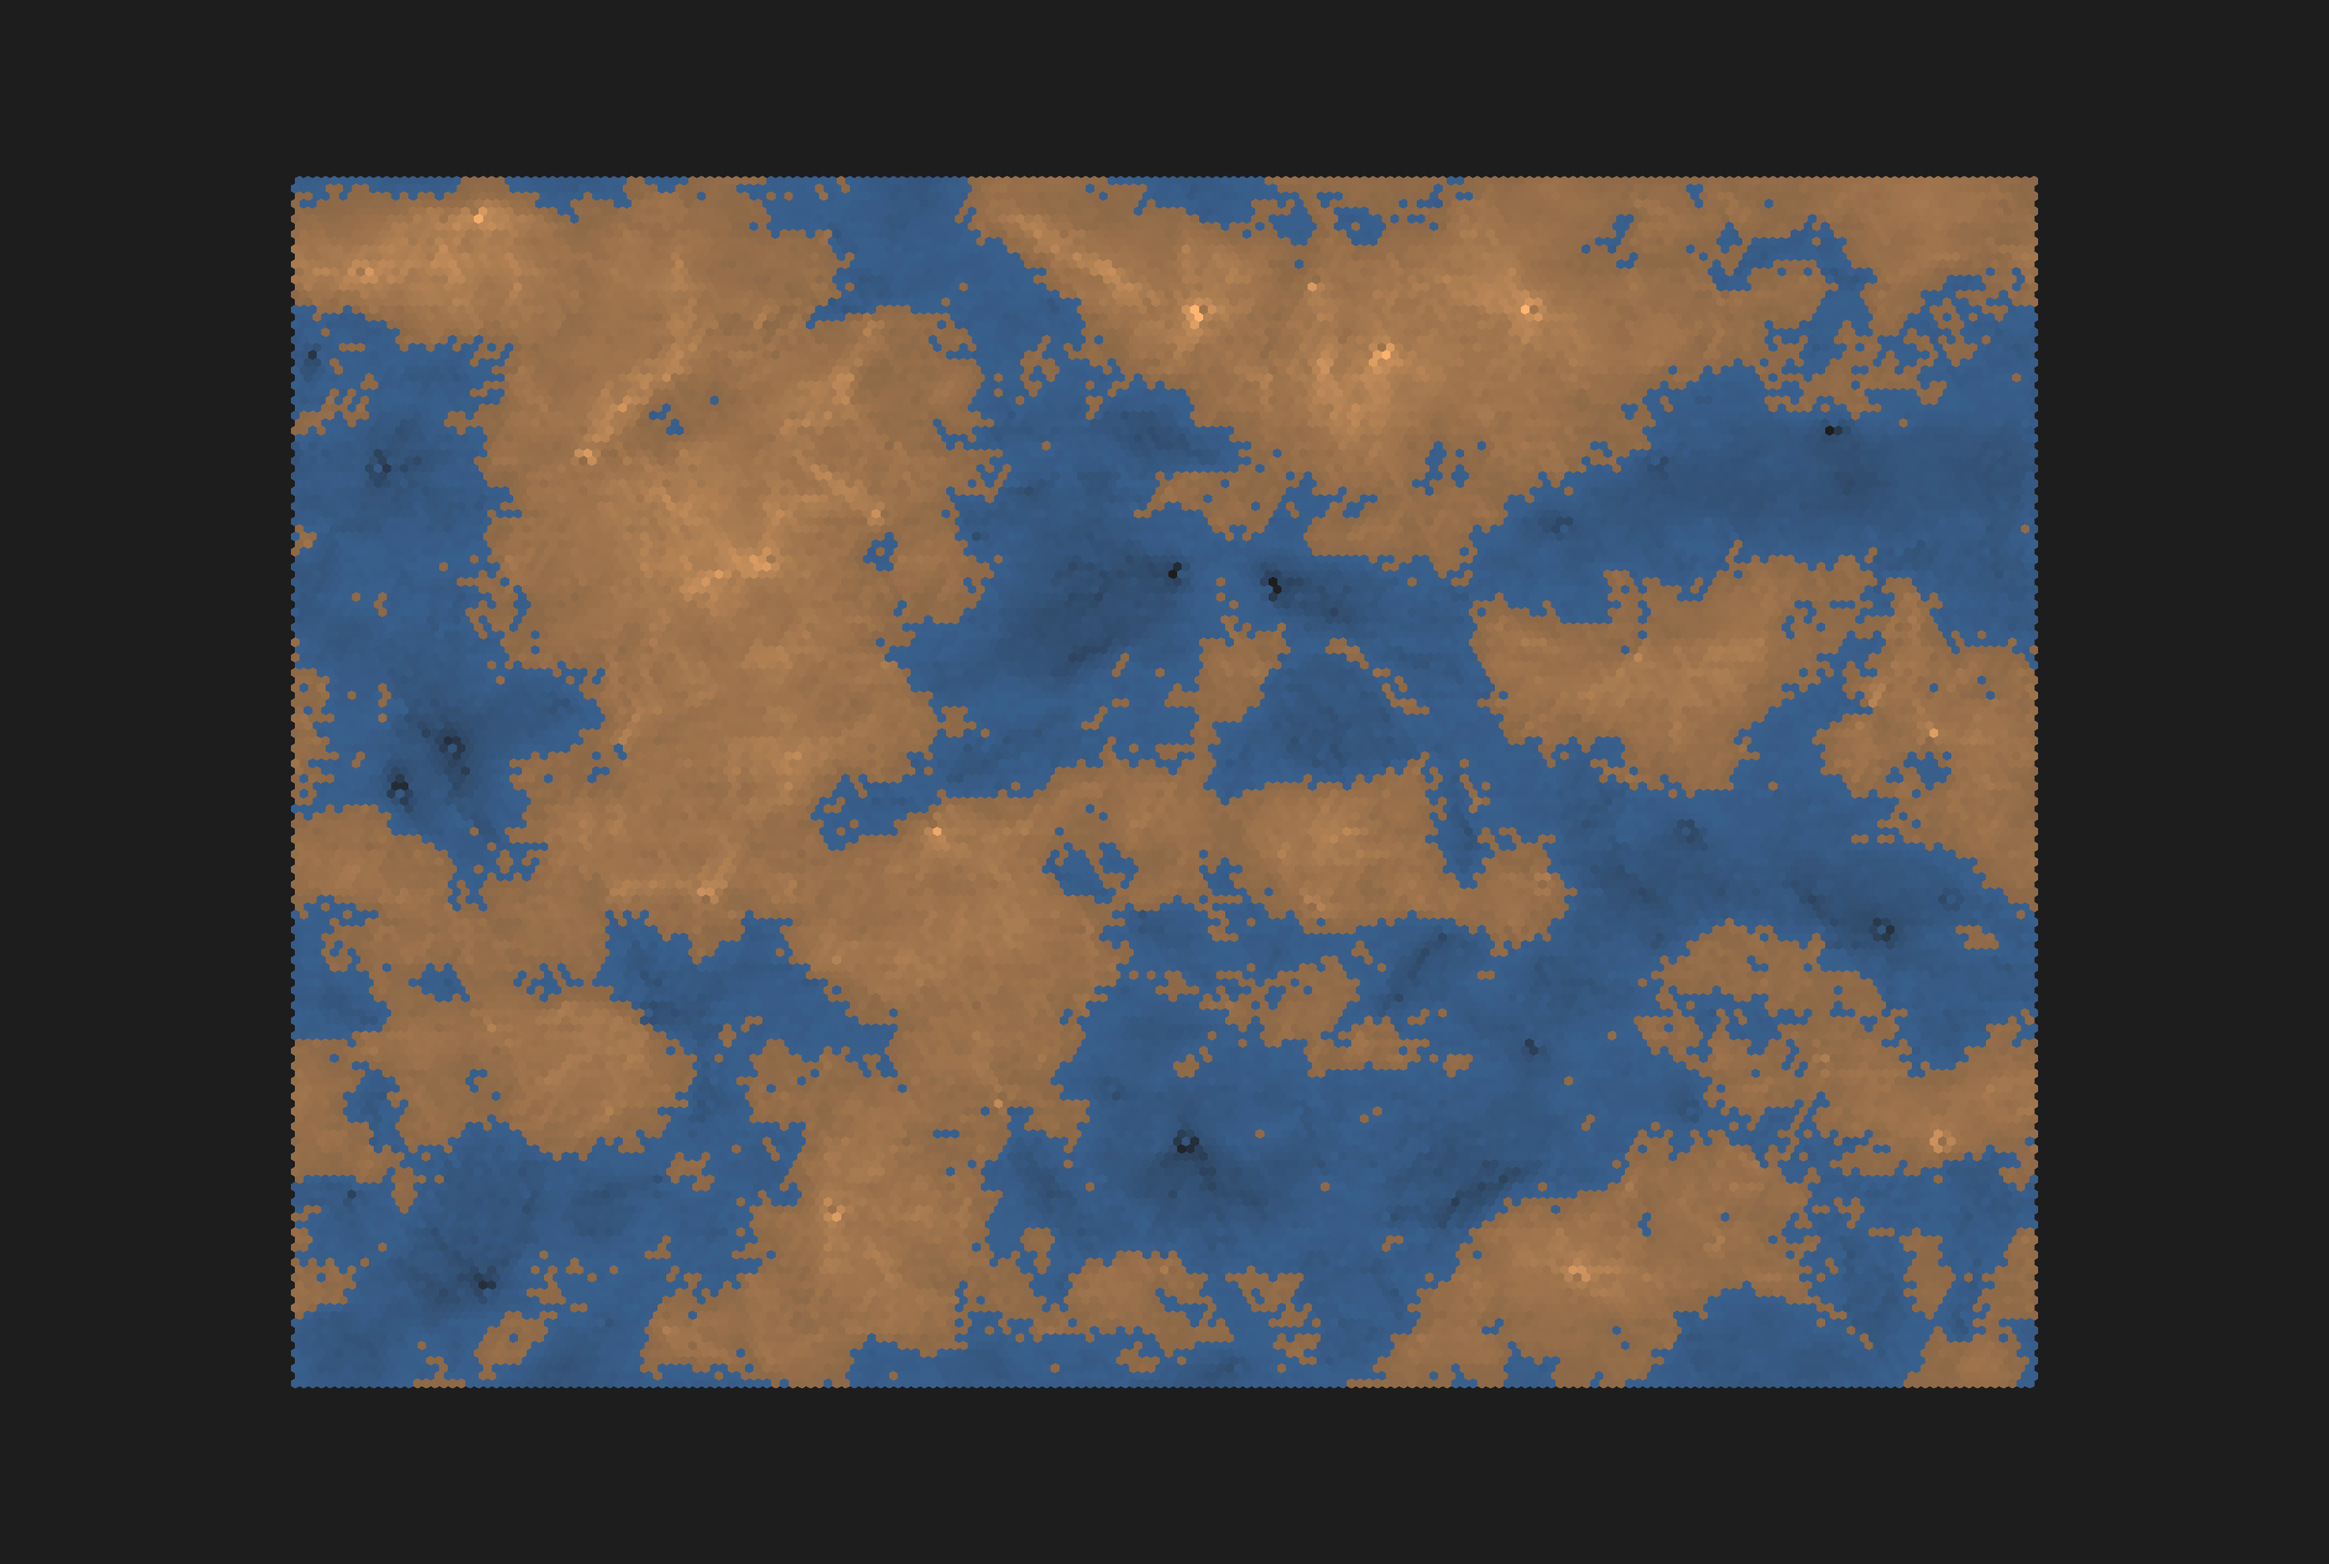
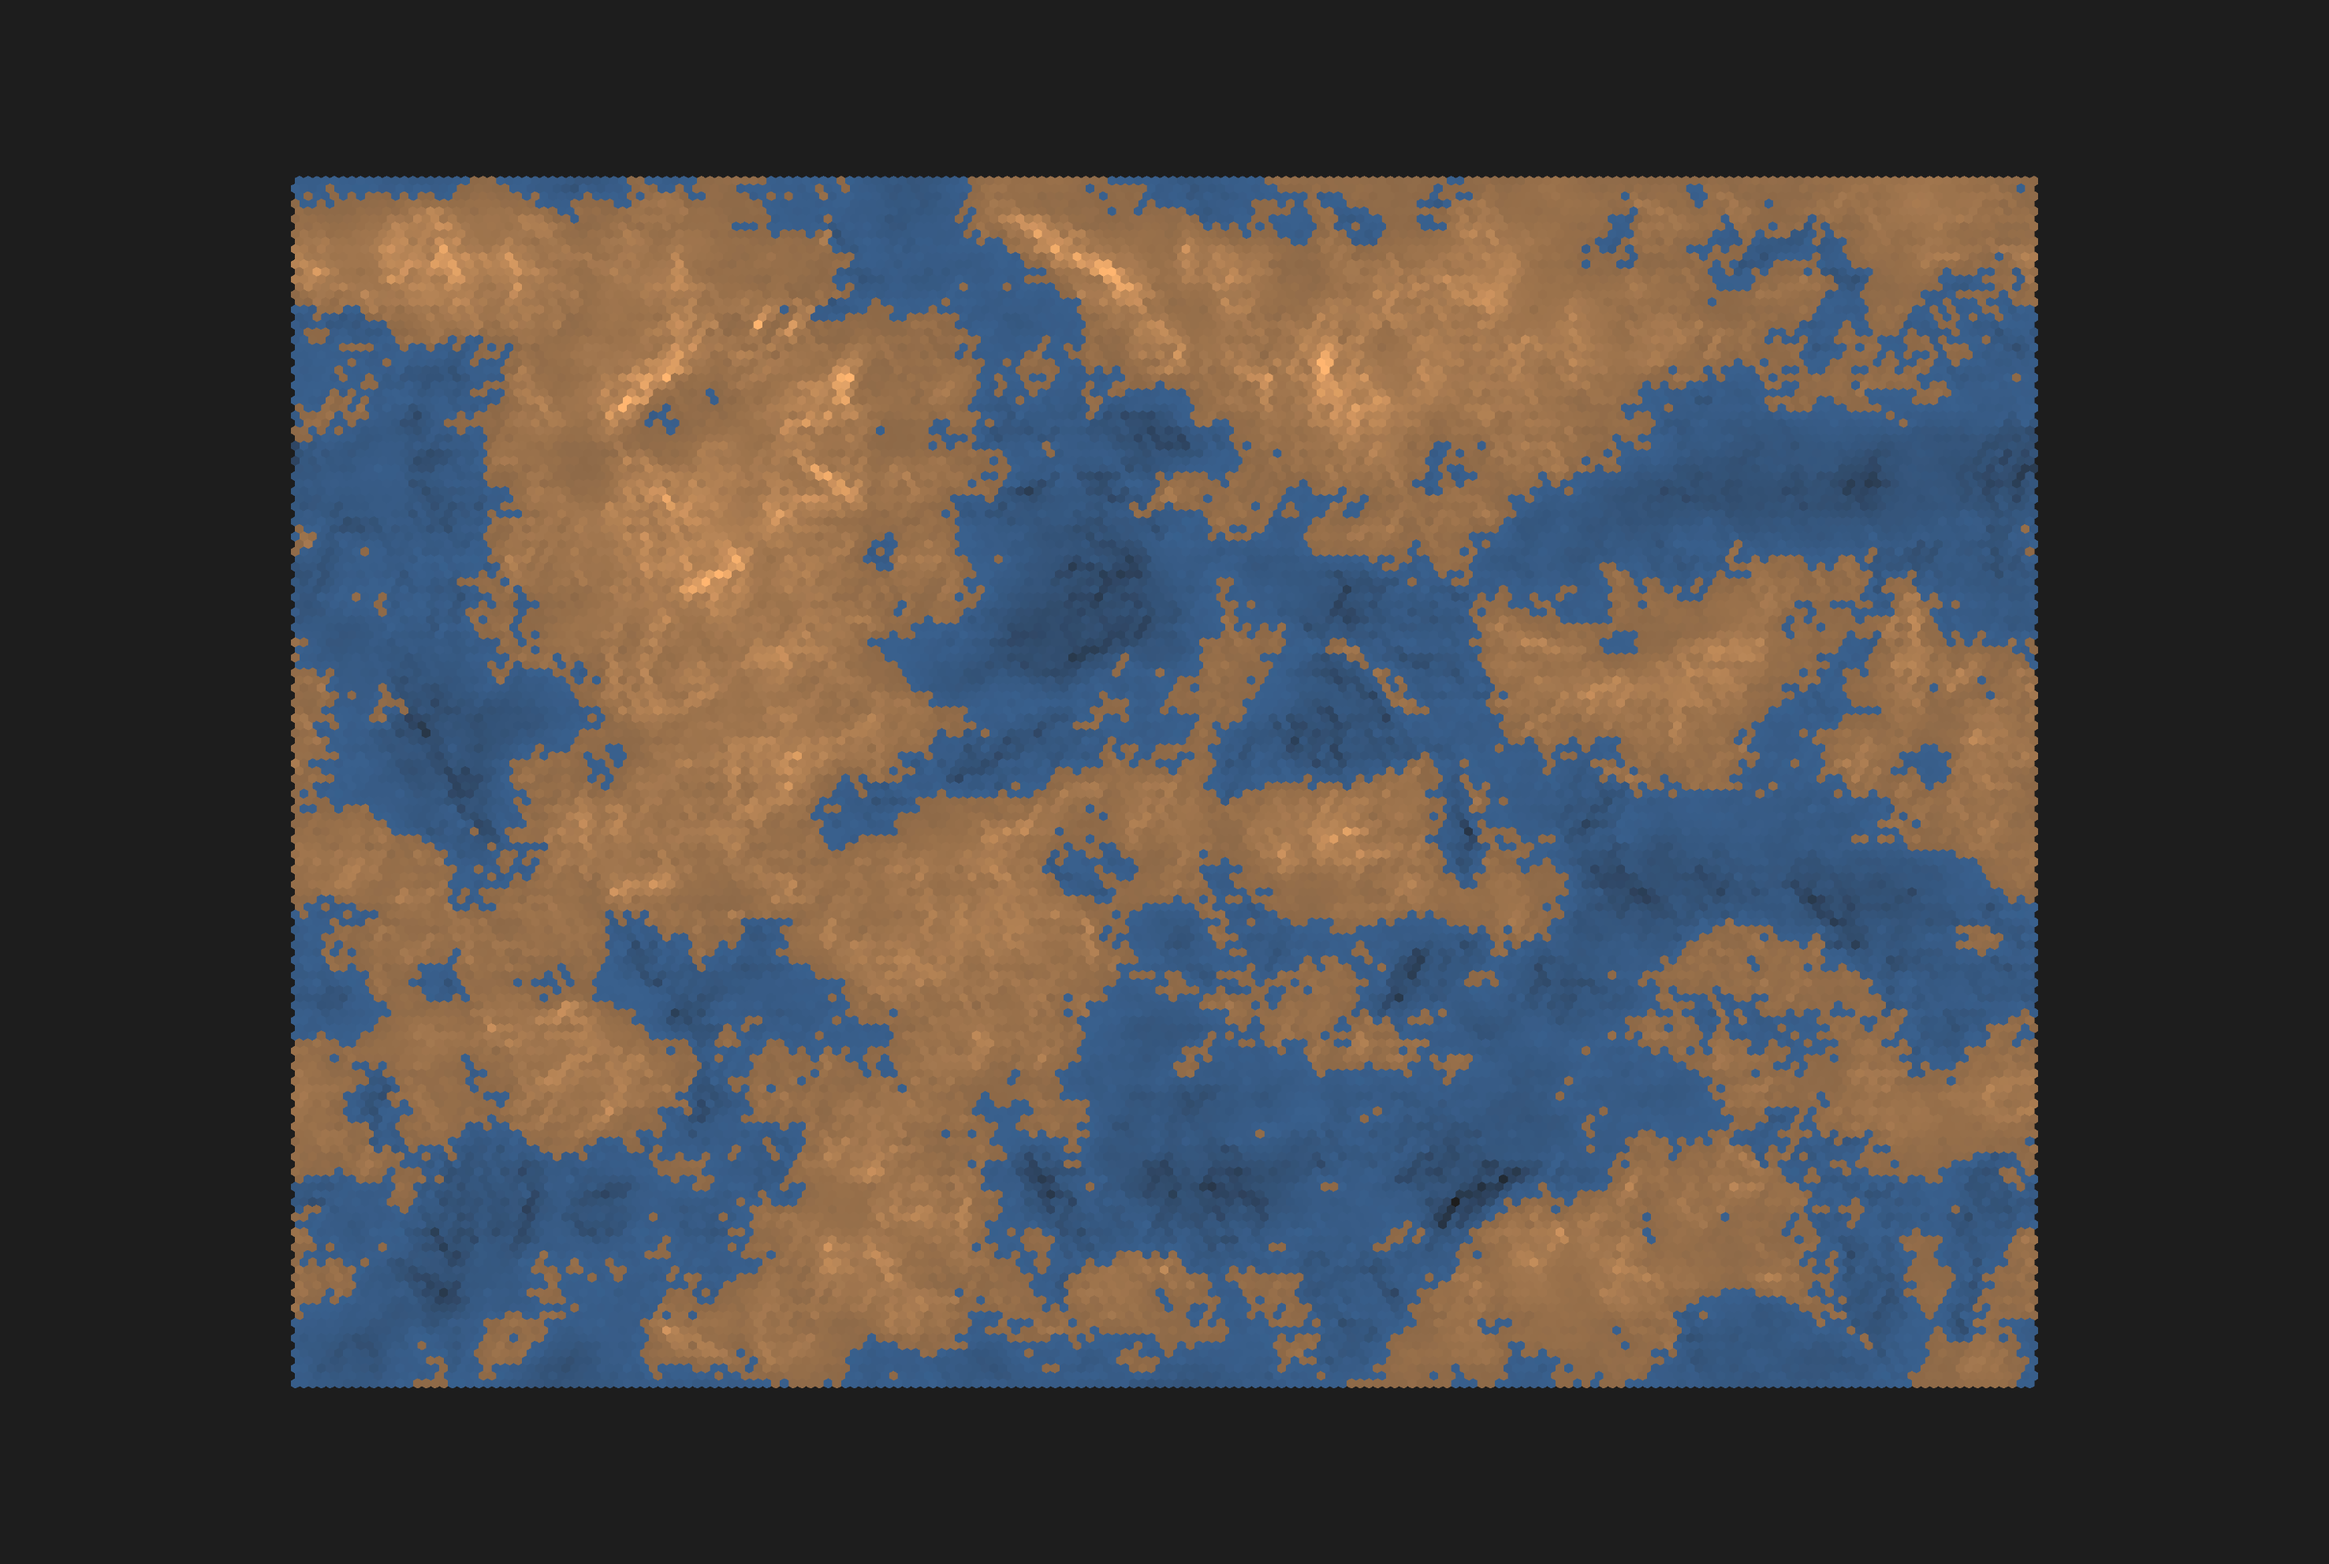
docs: improved examples

diff --git a/src/render/mod.rs b/src/render/mod.rs
@@ -123,7 +123,7 @@ impl Quadrant {
         let resolution = self.resolution(&center.center, &mesh.screen);
         let displacement = Point::new(relative_displacement.x, relative_displacement.y);
 
-        let mut polygons: Polygons = (start.x..end.x)
+        let  polygons: Polygons = (start.x..end.x)
             .into_par_iter()
             .flat_map(|x| {
                 (start.y..end.y).into_par_iter().map(move |y| {
@@ -131,24 +131,24 @@ impl Quadrant {
                     let hex = mesh.get_hex(x, y);
                     let elevation = topography.get_hex(x, y);
                     let mut color = colors::Debug::from_elevation(elevation);
-                    // let p_coord = topography.plates.map.get(&coord).unwrap();
-                    // if p_coord == &coord {
-                    //     color = colors::Debug::Green.rgba();
-                    // } else {
-                    //     let plate = topography.plates.regions.get(p_coord).unwrap();
-                    //     plate.border.iter().for_each(|(_n_coord, interaction)| {
-                    //         if interaction.segment.contains(&coord) {
-                    //             match interaction.variant {
-                    //                 InteractionVariant::Convergent => {
-                    //                     color = colors::Debug::Red.rgba()
-                    //                 }
-                    //                 InteractionVariant::Divergent => {
-                    //                     color = colors::Debug::Yellow.rgba()
-                    //                 }
-                    //             }
-                    //         }
-                    //     });
-                    // }
+                    let p_coord = topography.plates.map.get(&coord).unwrap();
+                    if p_coord == &coord {
+                        color = colors::Debug::Green.rgba();
+                    } else {
+                        let plate = topography.plates.regions.get(p_coord).unwrap();
+                        plate.border.iter().for_each(|(_n_coord, interaction)| {
+                            if interaction.segment.contains(&coord) {
+                                match interaction.variant {
+                                    InteractionVariant::Convergent => {
+                                        color = colors::Debug::Yellow.rgba()
+                                    }
+                                    InteractionVariant::Divergent => {
+                                        color = colors::Debug::Blue.rgba()
+                                    }
+                                }
+                            }
+                        });
+                    }
                     Polygon::new(hex, color, &displacement)
                 })
             })

diff --git a/src/topography/plates.rs b/src/topography/plates.rs
@@ -5,12 +5,12 @@ use crate::{
 };
 use hashbrown::{HashMap, HashSet};
 use hexx::Vec2;
-use rand::seq::{index, SliceRandom};
+use rand::seq::SliceRandom;
 use rand::{Rng, SeedableRng};
 use rand_pcg::Pcg64Mcg;
 use rayon::prelude::*;
+use std::collections::VecDeque;
 use std::f32::consts::PI;
-use std::{collections::VecDeque, f32::consts::E};
 
 // Seeds for the tectonic plates
 type Seeds = Vec<Coord>;
@@ -65,9 +65,6 @@ impl Angle {
     }
 }
 
-const SCALE: f32 = 0.04;
-const D: f32 = 0.01;
-
 // Categorize the angle relationship between two plates
 #[derive(Debug, Clone, Copy)]
 pub enum InteractionVariant {
@@ -118,23 +115,26 @@ impl InteractionVariant {
     }
 
     pub fn effect(&self, index: usize, slope_len: usize, elevation: f32) -> f32 {
-        if index == 0 {
-            return elevation;
+        let contrast = 1.065;
+        let steepness = 0.013;
+
+        if (index as f32) < (slope_len as f32) * 0.3 {
+            return elevation * 0.995;
         }
 
-        let effect_strength = 0.01;
+
         let i = index as f32;
         let n = (slope_len - 1) as f32;
 
         let distance_effect = match self {
-            InteractionVariant::Convergent => 0.01 + (i / n),
-            InteractionVariant::Divergent => -0.01 + (-i / n),
+            InteractionVariant::Convergent => i / n,
+            InteractionVariant::Divergent => -i / n,
         };
 
-        let adjustment = distance_effect * effect_strength;
+        let adjustment = distance_effect * steepness;
 
         // Adjust the elevation by the calculated adjustment, without halving the scale
-        (elevation + adjustment) * 1.03
+        (elevation + adjustment) * contrast
     }
 }
 
@@ -374,7 +374,7 @@ impl Plates {
             plate.slopes = plate
                 .border
                 .par_iter()
-                .flat_map(|(n_coord, interaction)| Slopes::build(p_coord, interaction, mesh))
+                .flat_map(|(_n_coord, interaction)| Slopes::build(p_coord, interaction, mesh))
                 .collect();
         });
     }

diff --git a/src/topography/mod.rs b/src/topography/mod.rs
@@ -2,7 +2,6 @@ mod plates;
 
 use log::debug;
 pub use plates::InteractionVariant;
-
 use crate::mesh::Mesh;
 use crate::utils::noise::OctaveNoise;
 use crate::{cmd::GenerateOptions, mesh::Coord};
@@ -47,7 +46,7 @@ impl Topography {
         plates.borders(&mesh);
         plates.slopes(&mesh);
 
-        plates.regions.iter().for_each(|(p_coord, plate)| {
+        plates.regions.iter().for_each(|(_p_coord, plate)| {
             plate.slopes.iter().for_each(|slope| {
                 slope.hexes.iter().enumerate().for_each(|(i, hex)| {
                     elevations
@@ -87,14 +86,6 @@ impl Topography {
 
         debug!("Min elevation: {}", min_elevation);
         debug!("Max elevation: {}", max_elevation);
-
-        // elevations.mapv_inplace(|elevation| {
-        //     if elevation < 0.0 {
-        //         min_elevation / elevation
-        //     } else {
-        //         max_elevation / elevation
-        //     }
-        // });
 
         Topography { elevations, plates }
     }

diff --git a/docs/simulation/README.md b/docs/simulation/README.md
@@ -20,11 +20,9 @@ For the noise coordenates, I'm converting the offset `x` and `y` to a cilindrica
 
 ![Elevation Texture](./elevations.png)
 
-### Tectonic Plates
+The topography shape is influenced by a tectonic plates simulation, which is divided into five key steps:
 
-Tectonic plates are instrumental in shaping mountain ranges and oceanic trenches within the simulation. This is accomplished through the following steps.
-
-#### 1. Seed Placement
+### 1. Seed Placement
 
 The map's initiation begins with the strategic placement of seed points that act as identifiers for individual tectonic plates. I initially wanted to use a Poisson Disk approach, but the result were too uniform for my taste, so I ended upp creating a simple logic that picks the seeds randomly ensuring aminimum distance between the points.
 
@@ -32,11 +30,11 @@ The map's initiation begins with the strategic placement of seed points that act
 | -------------------------------------------- | ---------------------------------------------- |
 | ![Custom Seed Placement](./custom_seeds.png) | ![Poisson Seed Placement](./poisson_seeds.png) |
 
-#### 2. Plate Growth
+### 2. Plate Growth
 
 The growth algorithm expands each seed into a full-fledged tectonic plate using a breadth-first search mechanism. This expansion is facilitated by a specially designed random queue to model natural geological progression and form distinct tectonic plates on the map. In this step, plates are also assigned a direction for the movement, which is just an random angle from $0º$ to $360º$.
 
-#### 3. Plate Borders
+### 3. Plate Borders
 
 To understand the relation between the plates and how they interact, we need to define their borders. This is done by going through all hexes in a plate's area and identifying if the neighbors of the hex are from the same plate or not. If they are not, we add the hex to the border list. The plates on the top and bottom edges of the map have a special edge border identifyed by the coordinate `(-1,-1)` and they are always Divergent.
 
@@ -49,8 +47,8 @@ To understand the interaction between the plates, we check the relative plate's 
 
 | **Visualization**                                              | **Description**                                                                                                            |
 | -------------------------------------------------------------- | -------------------------------------------------------------------------------------------------------------------------- |
-| ![Angle Between](./simulation/angle_between.png)               | Identify the delta between $0º$ and the angle between the plates' seeds.                                                   |
-| ![Rectified Directions](./simulation/rectified_directions.png) | We rotate the angle between to become our new $0º$, which help us to understand the relative direction between the plates. |
+| ![Angle Between](./angle_between.png)               | Identify the delta between $0º$ and the angle between the plates' seeds.                                                   |
+| ![Rectified Directions](./rectified_directions.png) | We rotate the angle between to become our new $0º$, which help us to understand the relative direction between the plates. |
 
 There are four type of interactions we can expect with this simulation:
 | **Directions**                   | **Interaction**                                        |
@@ -62,7 +60,7 @@ There are four type of interactions we can expect with this simulation:
 
 Where $A_m$ and $B_m$ are the magnitude (total hexes in area) of the plates.
 
-#### 4. Slopes
+### 4. Slopes
 
 The slopes are a list of arrays that go from the border hex of a plate to its seed. These array will affect the elevation of the hexes in the map.
 The slopes are defined by an A* algorithm that goes from the seed of the hex to the border. The cost of moving from one hex to another is defined by the difference in distance between each and the border.
@@ -72,7 +70,7 @@ The slopes are defined by an A* algorithm that goes from the seed of the hex to 
 | ------------------------- | --------------------------- | ----------------------------- | --------------------------- | ------------------------- |
 | ![Slope I](./slope_I.png) | ![Slope II](./slope_II.png) | ![Slope III](./slope_III.png) | ![Slope IV](./slope_IV.png) | ![Slope n](./slope_n.png) |
 
-#### 5. Elevation
+### 5. Elevation
 
 After the initial elevation assignation via the noise algorithm, we apply the slope to the map. The slope will affect the elevation of the hexes in the map. The elevation is adjusted linearly with distance from the seed to the border, subtly at first and then more pronouncedly, with a baseline adjustment to ensure even the first step away from the seed has a minimal effect.
 
@@ -103,9 +101,13 @@ This method allows elevation to dynamically reflect the geological processes at 
 
 ![Tectonic Elevations](./tectonic_elevations.png)
 
-| **Before**                            | **After**                                 |
-| ------------------------------------- | ----------------------------------------- |
+| **Before**                            | **After**                                     |
+| ------------------------------------- | --------------------------------------------- |
 | ![Before Elevation](./elevations.png) | ![After Elevation](./tectonic_elevations.png) |
+
+You can see here the tectonic interactions and how they affect the elevation of the map. In `yellow` we have the Convergent interactions and in `blue` the Divergent interactions.
+
+![Interaction Elevations](./interaction_elevations.png)
 
 
 ## Rendering
